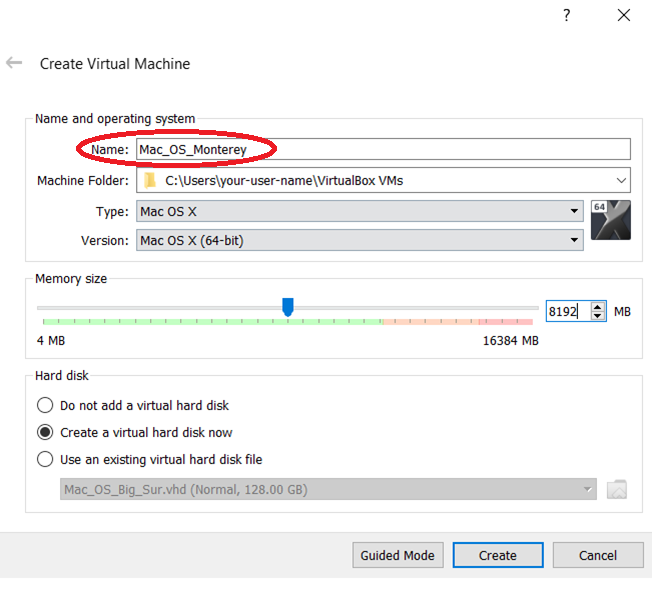
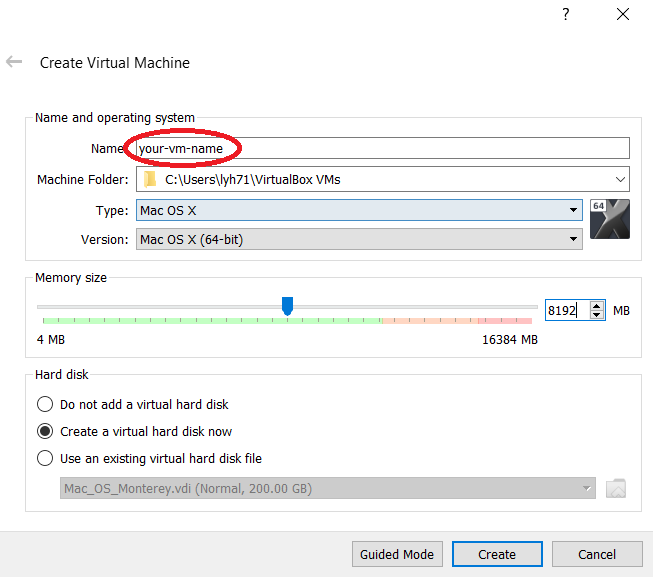
big sur

diff --git a/README.md b/README.md
@@ -2,8 +2,8 @@
 Setup Mac OS within Windows 10 using VirtualBox
 
 ## Mac OS version involved:
-- Big Sur
-- Monterey
+- The below steps work for Big Sur
+- We tried for Monterey, but not working yet, will update if any progress
 
 ## Steps:
 - Download and install **VirtualBox** as well as the corresponding **VirtualBox Extension Pack** for Windows 10 via: https://www.virtualbox.org/wiki/Downloads
